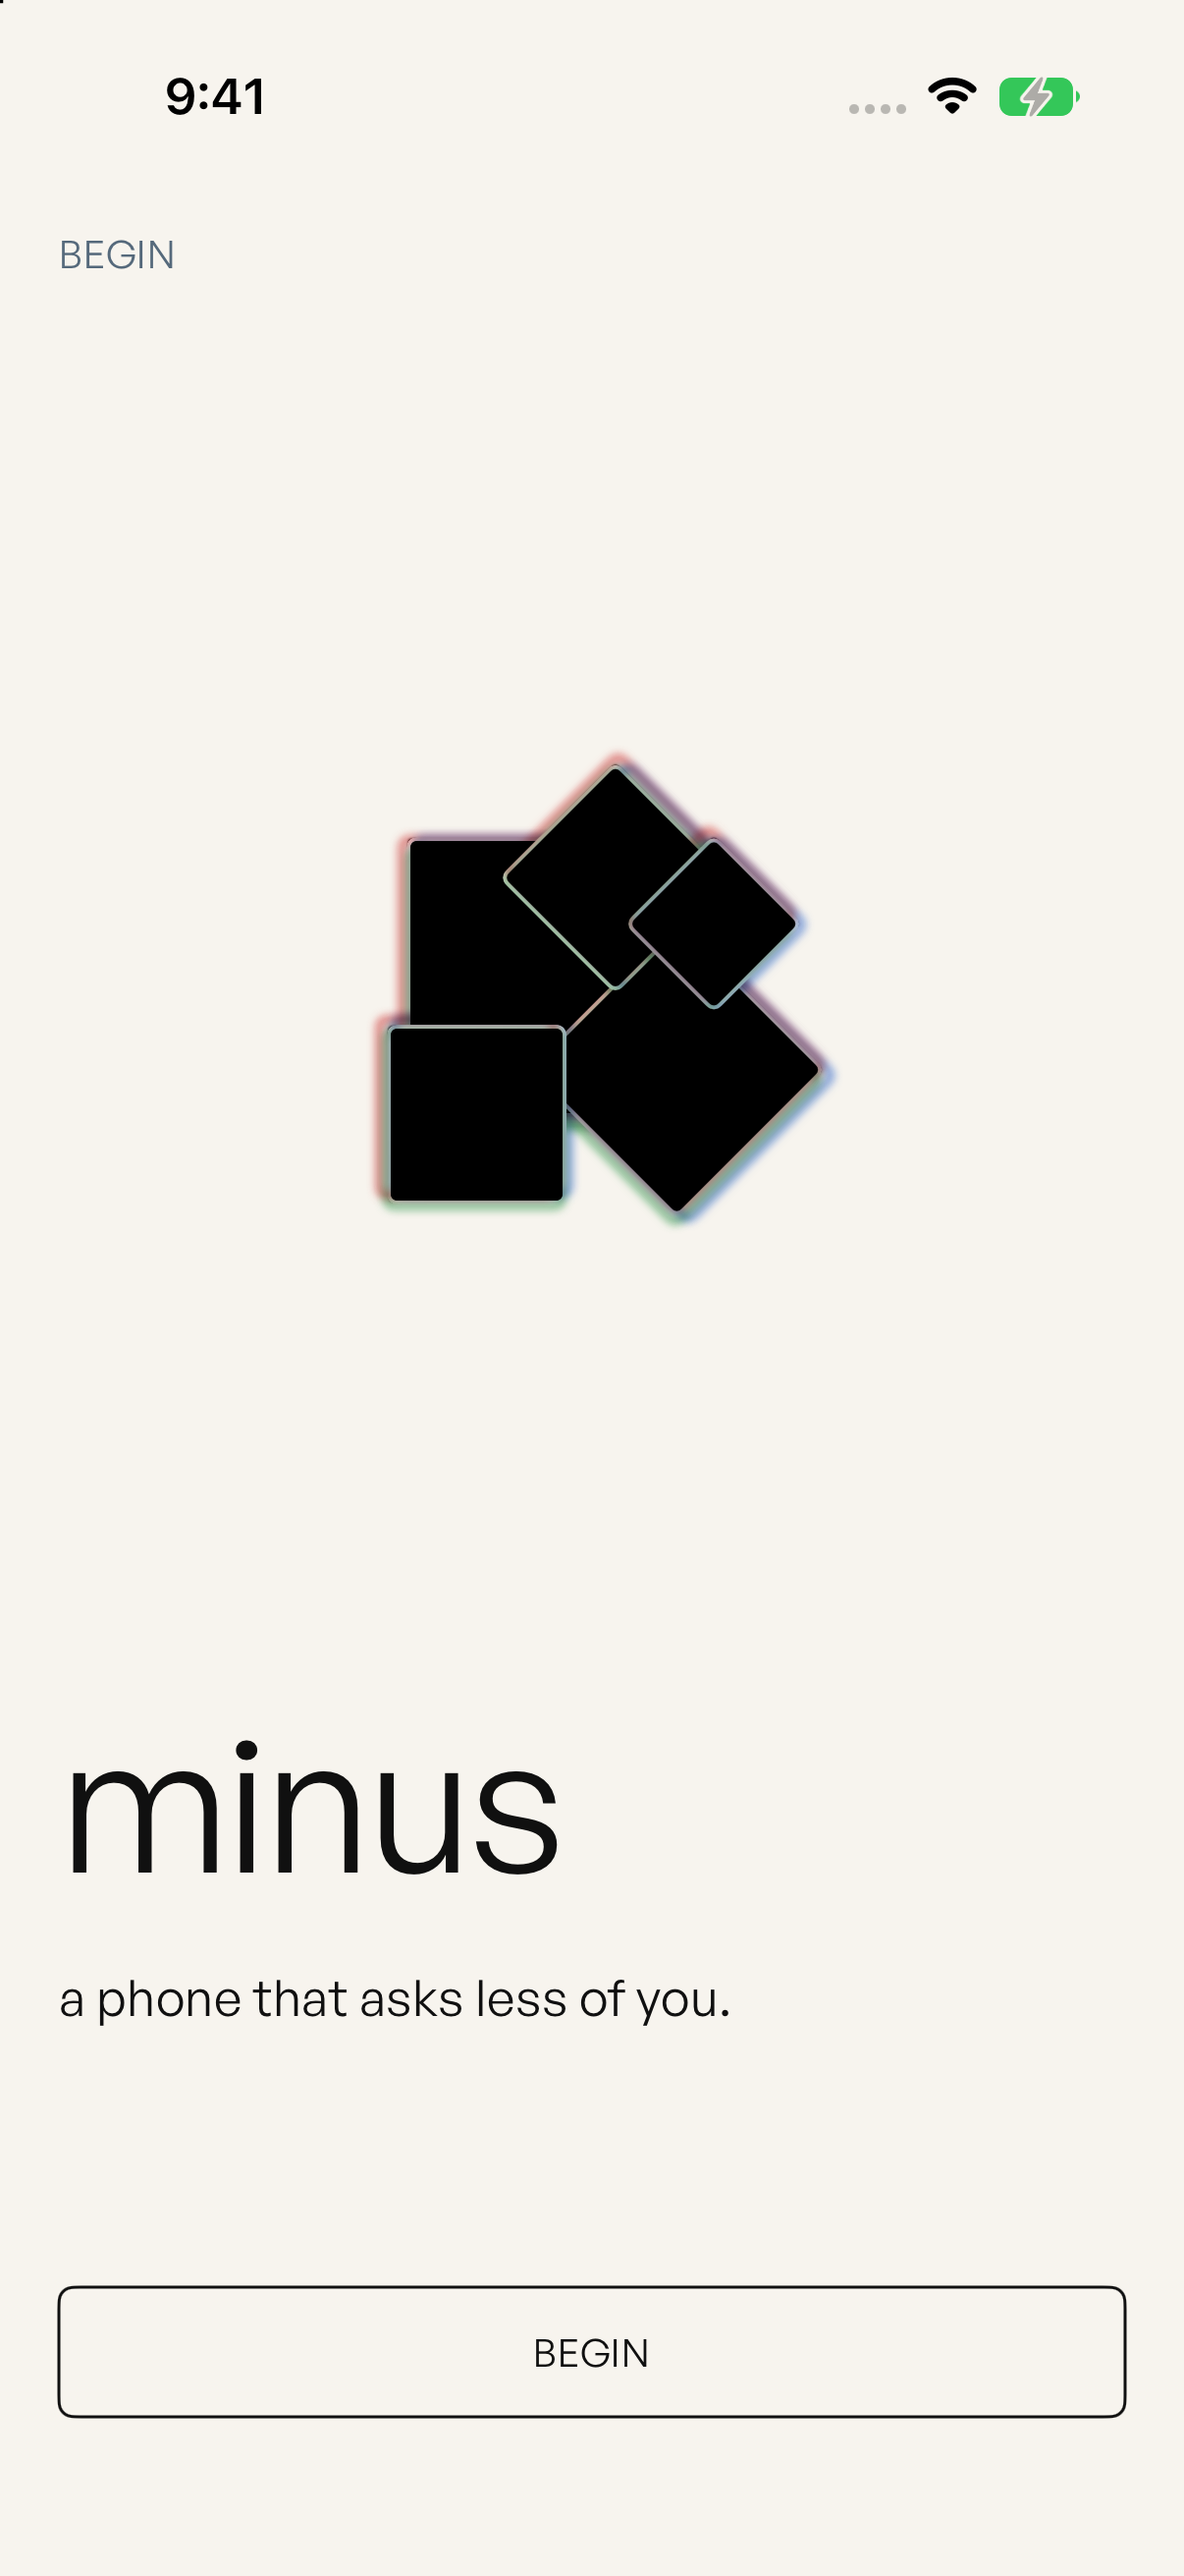
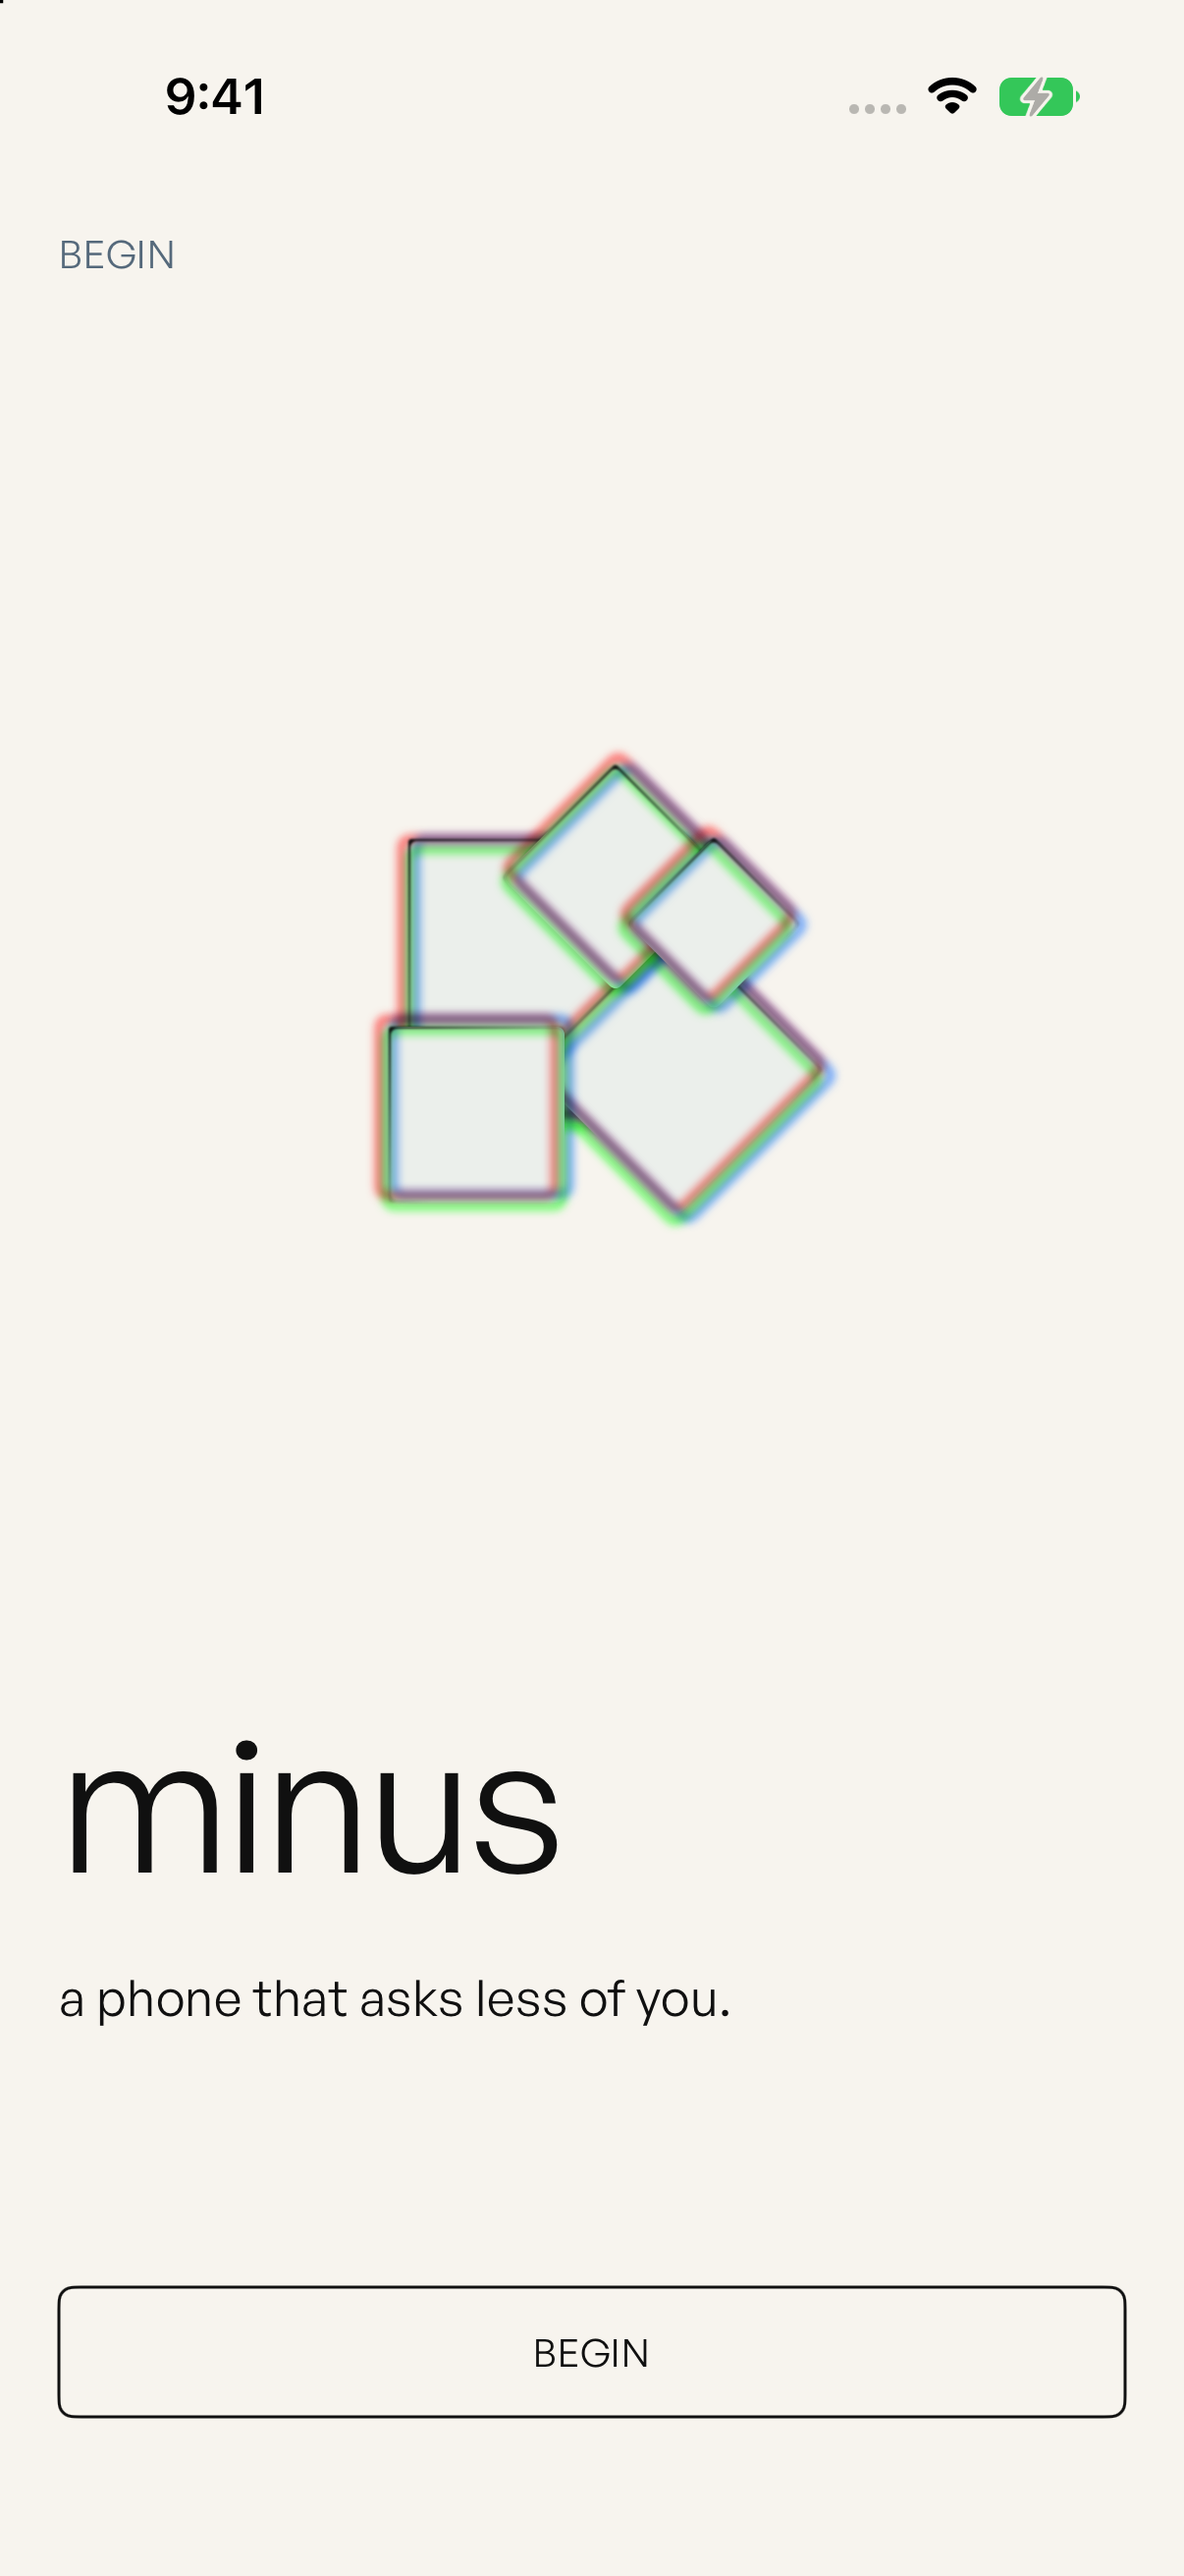
prism: the same artifact, mirrored onto paper
the dark cube is black on a 101010 canvas, six percent off the ground,
so the mass all but disappears and the dispersion is the whole subject.
i had filled the same cube with ink on near white, which inverts that
relationship rather than mirroring it: the mass became the subject and
the light a halo, and the seams i added were a patch for that.

every pole flips now and no hue moves. the body sits a hair lighter
than paper instead of a hair darker than the void. one triad both ways,
because the blend does the work: adding sums toward white, multiplying
sinks toward ink. the specular needed no new color at all, since
boneWhite already resolves to ink on paper.

paper takes half the face wash, since three washes stack harder when
multiplied than when added, and a heavier stroke, since a multiplied
edge through a blur reads fainter than an additive one.

Changed region(s): [[0.3068, 0.278, 0.7056, 0.4943]]

diff --git a/Minus/DesignSystem/Prism/PrismArtifact.swift b/Minus/DesignSystem/Prism/PrismArtifact.swift
@@ -87,29 +87,23 @@ struct PrismArtifact: View {
             )
 
         return ZStack {
-            // Glass body — pure black, a hair darker than obsidian so the cube
-            // reads as a solid mass the fringes wrap around.
+            // Glass body — a hair away from the canvas, never a mass. Black
+            // sits 6% off obsidian and white sits 3% off paper, so on either
+            // ground the cube all but disappears and the dispersion is the
+            // whole subject. Filling it with ink on paper would invert that
+            // relationship rather than mirror it: the mass would become the
+            // subject and the light a faint halo.
             RoundedRectangle(cornerRadius: radius, style: .continuous)
-                .fill(Color.black)
+                .fill(onPaper ? Color.white : Color.black)
                 .frame(width: s, height: s)
 
-            // On the void the bright fringes fall BETWEEN the cubes and draw
-            // every edge for free. On paper they fall outward instead, so the
-            // cluster collapses into one black silhouette. A canvas hairline
-            // gives each cube its own edge back, the way a real stack of glass
-            // shows a seam where two faces meet.
-            if onPaper {
-                RoundedRectangle(cornerRadius: radius, style: .continuous)
-                    .stroke(MN.obsidian, lineWidth: 1.2 * scale)
-                    .frame(width: s, height: s)
-            }
-
-            // Three dispersion clones — the chromatic edges. The triad goes
-            // deeper on paper: the neon values are tuned to glow on black and
-            // the green in particular all but disappears on a light ground.
-            channelClone(onPaper ? .prismRedInk : .prismRed, direction: PrismGeometry.redDirection, magnitude: PrismGeometry.redMagnitude, side: s, radius: radius, scale: scale, drift: drift)
-            channelClone(onPaper ? .prismGreenInk : .prismGreen, direction: PrismGeometry.greenDirection, magnitude: PrismGeometry.greenMagnitude, side: s, radius: radius, scale: scale, drift: drift)
-            channelClone(onPaper ? .prismBlueInk : .prismBlue, direction: PrismGeometry.blueDirection, magnitude: PrismGeometry.blueMagnitude, side: s, radius: radius, scale: scale, drift: drift)
+            // Three dispersion clones — the chromatic edges. One triad for
+            // both grounds: the blend does the work, not the palette. Neon
+            // green multiplied onto paper lands at (41, 244, 39), the mirror
+            // of that same neon added onto black.
+            channelClone(.prismRed, direction: PrismGeometry.redDirection, magnitude: PrismGeometry.redMagnitude, side: s, radius: radius, scale: scale, drift: drift)
+            channelClone(.prismGreen, direction: PrismGeometry.greenDirection, magnitude: PrismGeometry.greenMagnitude, side: s, radius: radius, scale: scale, drift: drift)
+            channelClone(.prismBlue, direction: PrismGeometry.blueDirection, magnitude: PrismGeometry.blueMagnitude, side: s, radius: radius, scale: scale, drift: drift)
 
             // Specular — only the top/left edges catch light, faded to nothing
             // by the diagonal gradient mask. Composited with plusLighter so it
@@ -127,7 +121,10 @@ struct PrismArtifact: View {
                     .frame(width: s, height: s)
                 )
                 .blur(radius: 0.4)
-                .blendMode(.plusLighter)
+                // The catch flips with everything else: MN.boneWhite already
+                // resolves to ink on paper, so adding becomes multiplying and
+                // the white highlight becomes a dark one.
+                .blendMode(onPaper ? .multiply : .plusLighter)
         }
         .rotationEffect(cube.rotation)
         .position(center)
@@ -139,10 +136,16 @@ struct PrismArtifact: View {
         let dx = direction.dx * magnitude * scale + drift.width
         let dy = direction.dy * magnitude * scale + drift.height
         return RoundedRectangle(cornerRadius: radius, style: .continuous)
-            .fill(color.opacity(0.10))
+            // Three washes stack, and multiplying stacks harder than adding
+            // does, so paper takes half. Dropping it entirely left the faces
+            // flat white, where the dark ones carry a faint chromatic tint.
+            .fill(color.opacity(onPaper ? 0.05 : 0.10))
             .overlay(
                 RoundedRectangle(cornerRadius: radius, style: .continuous)
-                    .stroke(color, lineWidth: 1.5)
+                    // A multiplied edge through a blur reads fainter than an
+                    // additive one, so paper gets a heavier stroke to land at
+                    // the same intensity.
+                    .stroke(color, lineWidth: onPaper ? 2.1 : 1.5)
             )
             .frame(width: side, height: side)
             .offset(x: dx, y: dy)
@@ -164,11 +167,6 @@ private extension Color {
     static let prismBlue  = Color(mnHex: 0x2A7FFF)
     static let prismGreen = Color(mnHex: 0x2AFF2A)
 
-    /// The same triad, weighted for paper. Neon reads as light on the void
-    /// and as nothing on a page, so the light ground gets pigment instead.
-    static let prismRedInk   = Color(mnHex: 0xC81E1E)
-    static let prismBlueInk  = Color(mnHex: 0x1E5AC8)
-    static let prismGreenInk = Color(mnHex: 0x1E8C3C)
 }
 
 #if DEBUG

diff --git a/MinusTests/DesignGuardTests.swift b/MinusTests/DesignGuardTests.swift
@@ -48,11 +48,7 @@ final class DesignGuardTests: XCTestCase {
     func testPrismHexCodesAreContainedToPrismDirectory() {
         let found = Self.findViolations(
             in: Self.swiftFiles(),
-            patterns: [
-                "FF2A2A", "2A7FFF", "2AFF2A",
-                // The paper-ground triad is contained the same way.
-                "C81E1E", "1E5AC8", "1E8C3C",
-            ],
+            patterns: ["FF2A2A", "2A7FFF", "2AFF2A"],
             caseInsensitive: true,
             isExempt: { $0.path.hasPrefix(Self.prismRootPrefix) }
         )
